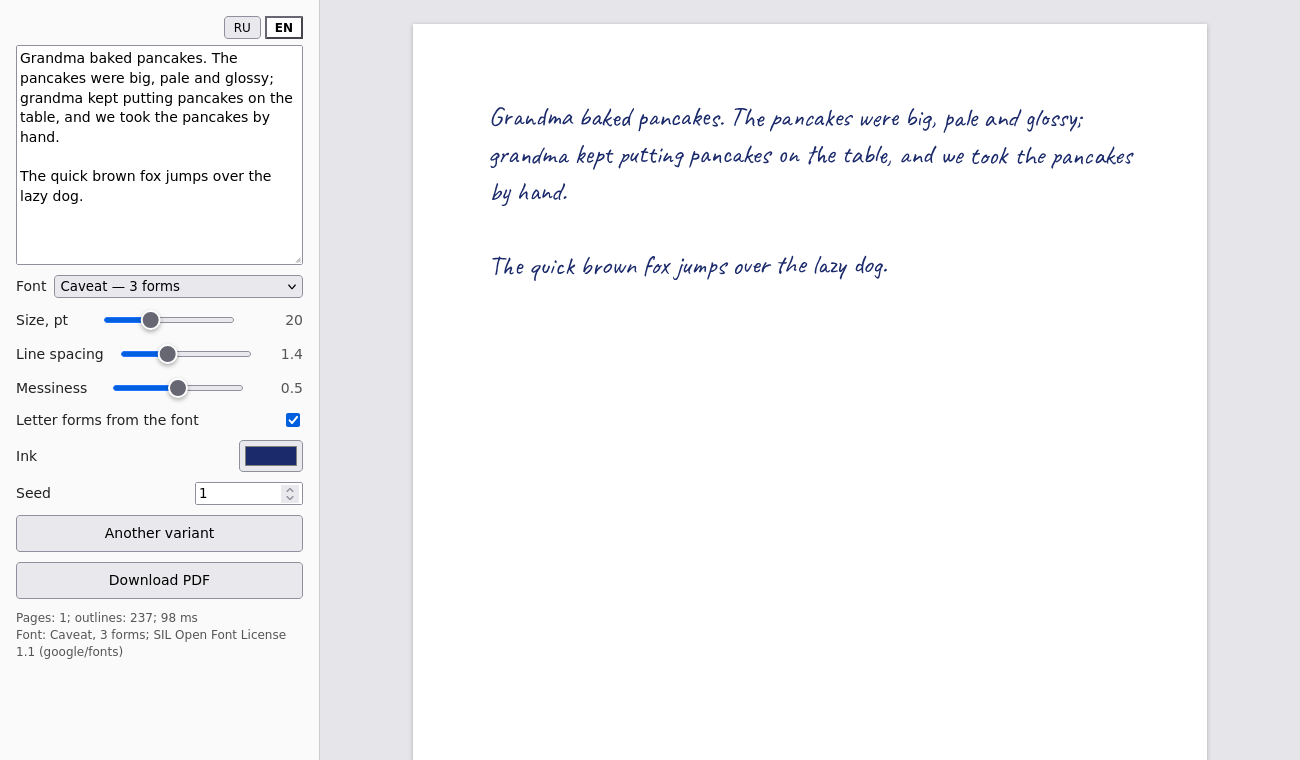
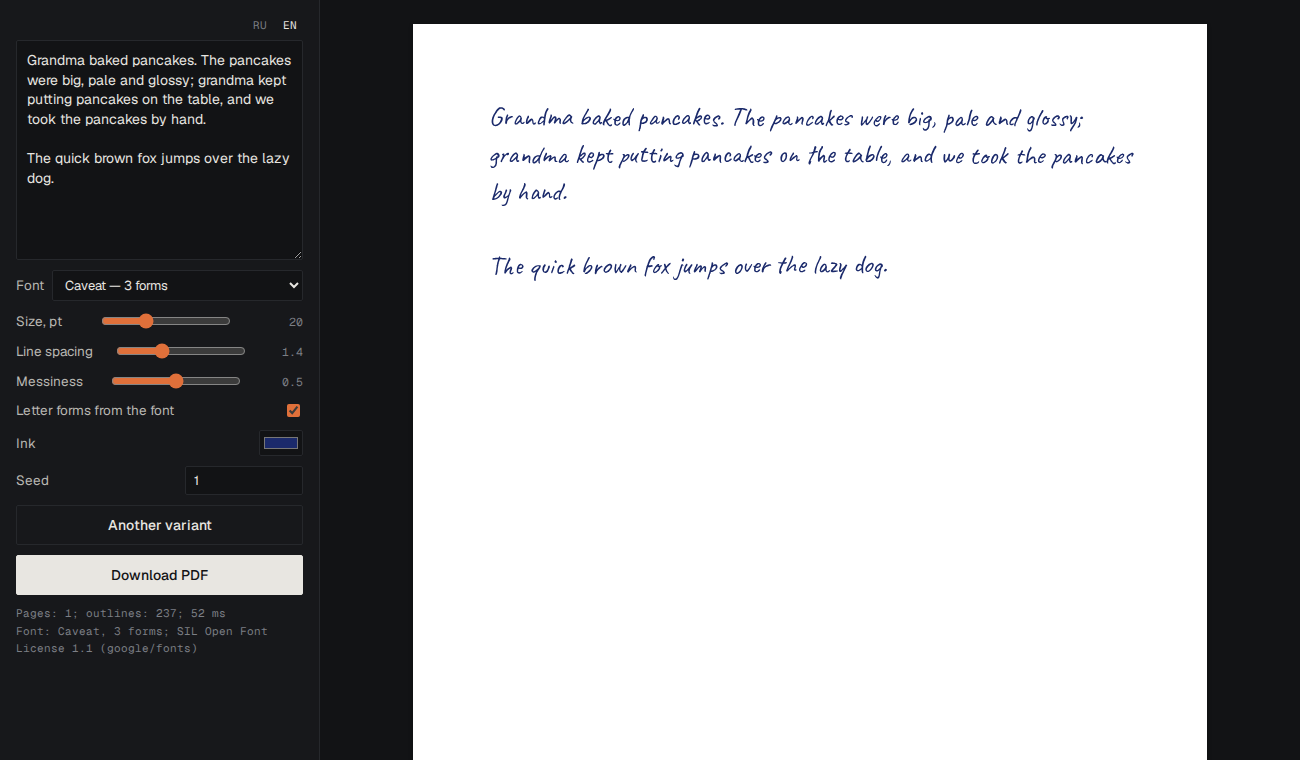
Dark theme matching the caerno.github.io landing

diff --git a/web/index.html b/web/index.html
@@ -3,40 +3,60 @@
 <head>
 <meta charset="utf-8">
 <title>Живой почерк → PDF</title>
+<link rel="preconnect" href="https://fonts.googleapis.com">
+<link rel="preconnect" href="https://fonts.gstatic.com" crossorigin>
+<link rel="stylesheet" href="https://fonts.googleapis.com/css2?family=Geist:wght@400..700&family=Geist+Mono:wght@400;500&display=swap">
 <style>
-  body { margin: 0; font: 14px/1.4 system-ui, sans-serif; display: flex; height: 100vh; background: #e6e6ea; color: #222; }
-  aside { width: 320px; flex: none; padding: 16px; box-sizing: border-box; background: #fafafa; border-right: 1px solid #ccc;
+  /* Палитра и шрифты — как у прототипа главной caerno.github.io (тёмная тема). */
+  :root { --bg: #121315; --bg2: #17181B; --ink: #E8E6E1; --mid: #B9B7B2; --dim: #7C7F85; --line: #26282C; --accent: #E0703A;
+          --sans: 'Geist', system-ui, sans-serif; --mono: 'Geist Mono', monospace; color-scheme: dark; }
+  body { margin: 0; font: 14px/1.4 var(--sans); display: flex; height: 100vh; background: var(--bg); color: var(--ink);
+         -webkit-font-smoothing: antialiased; }
+  aside { width: 320px; flex: none; padding: 16px; box-sizing: border-box; background: var(--bg2); border-right: 1px solid var(--line);
           overflow: auto; display: flex; flex-direction: column; gap: 10px; }
-  textarea { width: 100%; height: 220px; box-sizing: border-box; font: 14px/1.4 system-ui, sans-serif; resize: vertical; }
-  label { display: flex; justify-content: space-between; align-items: center; gap: 8px; }
-  input[type=range] { width: 130px; }
+  textarea { width: 100%; height: 220px; box-sizing: border-box; font: 14px/1.4 var(--sans); resize: vertical;
+             background: var(--bg); color: var(--ink); border: 1px solid var(--line); border-radius: 2px; padding: 10px; }
+  label { display: flex; justify-content: space-between; align-items: center; gap: 8px; color: var(--mid); font-size: 13.5px; }
+  input[type=range] { width: 130px; accent-color: var(--accent); }
+  input[type=checkbox] { accent-color: var(--accent); }
+  select, input[type=number] { background: var(--bg); color: var(--ink); border: 1px solid var(--line); border-radius: 2px;
+                               padding: 5px 8px; font: 13px var(--sans); }
   select { flex: 1; min-width: 0; }
-  output { width: 34px; text-align: right; color: #555; }
-  button { padding: 8px 10px; font-size: 14px; cursor: pointer; }
-  #status { color: #555; font-size: 12px; white-space: pre-line; }
+  input[type=color] { width: 44px; height: 26px; padding: 2px; background: var(--bg); border: 1px solid var(--line); border-radius: 2px; }
+  textarea:focus, select:focus, input:focus { outline: none; border-color: var(--dim); }
+  output { width: 34px; text-align: right; color: var(--dim); font: 11.5px var(--mono); }
+  button { padding: 10px 14px; font: 500 14px var(--sans); cursor: pointer; border-radius: 2px;
+           background: transparent; color: var(--ink); border: 1px solid var(--line); }
+  button:hover { border-color: var(--dim); }
+  #pdf { background: var(--ink); color: var(--bg); border-color: var(--ink); }
+  #pdf:hover { background: #fff; }
+  #status { color: var(--dim); font: 11px/1.6 var(--mono); white-space: pre-line; }
   .lang { display: flex; justify-content: flex-end; gap: 4px; margin-bottom: -4px; }
-  .lang button { padding: 2px 8px; font-size: 12px; }
-  .lang button[aria-pressed=true] { font-weight: bold; background: #fff; }
+  .lang button { padding: 2px 6px; font: 11px var(--mono); color: var(--dim); border: none; }
+  .lang button:hover { color: var(--mid); }
+  .lang button[aria-pressed=true] { color: var(--ink); }
   main { flex: 1; overflow: auto; padding: 24px; display: flex; flex-direction: column; align-items: center; gap: 24px; }
   svg.page { background: #fff; box-shadow: 0 1px 4px rgba(0,0,0,.25); width: min(100%, 794px); height: auto; flex: none; }
+  .rise { opacity: 0; transform: translateY(22px); transition: opacity .7s cubic-bezier(.2,.7,.3,1), transform .7s cubic-bezier(.2,.7,.3,1); }
+  .rise.in { opacity: 1; transform: none; }
 </style>
 </head>
 <body>
 <aside>
-  <div class="lang"><button data-lang="ru">RU</button><button data-lang="en">EN</button></div>
-  <textarea id="text"></textarea>
-  <label><span data-t="font">Шрифт</span> <select id="font"></select></label>
-  <label><span data-t="size">Размер, pt</span> <input id="size" type="range" min="10" max="40" step="1" value="20"><output></output></label>
-  <label><span data-t="leading">Интервал</span> <input id="leading" type="range" min="1" max="2.2" step="0.05" value="1.4"><output></output></label>
-  <label><span data-t="mess">Небрежность</span> <input id="mess" type="range" min="0" max="1" step="0.05" value="0.5"><output></output></label>
-  <label><span data-t="alts">Формы букв из шрифта</span> <input id="alts" type="checkbox" checked></label>
-  <label><span data-t="ink">Чернила</span> <input id="ink" type="color" value="#1b2a6b"></label>
-  <label><span data-t="seed">Зерно</span> <input id="seed" type="number" value="1" style="width: 100px"></label>
-  <button id="reseed" data-t="reseed">Другой вариант</button>
-  <button id="pdf" data-t="pdf">Скачать PDF</button>
-  <div id="status"></div>
+  <div class="lang rise"><button data-lang="ru">RU</button><button data-lang="en">EN</button></div>
+  <textarea id="text" class="rise"></textarea>
+  <label class="rise"><span data-t="font">Шрифт</span> <select id="font"></select></label>
+  <label class="rise"><span data-t="size">Размер, pt</span> <input id="size" type="range" min="10" max="40" step="1" value="20"><output></output></label>
+  <label class="rise"><span data-t="leading">Интервал</span> <input id="leading" type="range" min="1" max="2.2" step="0.05" value="1.4"><output></output></label>
+  <label class="rise"><span data-t="mess">Небрежность</span> <input id="mess" type="range" min="0" max="1" step="0.05" value="0.5"><output></output></label>
+  <label class="rise"><span data-t="alts">Формы букв из шрифта</span> <input id="alts" type="checkbox" checked></label>
+  <label class="rise"><span data-t="ink">Чернила</span> <input id="ink" type="color" value="#1b2a6b"></label>
+  <label class="rise"><span data-t="seed">Зерно</span> <input id="seed" type="number" value="1" style="width: 100px"></label>
+  <button id="reseed" class="rise" data-t="reseed">Другой вариант</button>
+  <button id="pdf" class="rise" data-t="pdf">Скачать PDF</button>
+  <div id="status" class="rise"></div>
 </aside>
-<main id="pages"></main>
+<main id="pages" class="rise"></main>
 
 <!-- Обычные скрипты, не модули: страница открывается через file://, там модули и fetch запрещены. -->
 <script src="vendor/fontkit.umd.min.js"></script>
@@ -289,6 +309,13 @@ $('pdf').onclick = () => exportPdf().catch(e => { $('status').textContent += `\n
 document.querySelectorAll('[data-lang]').forEach(b => b.onclick = () => setLang(b.dataset.lang, true));
 
 setLang(initialLang());
+
+// Плавное появление блоков — тот же приём, что .rise на главной: класс in, когда блок доехал до экрана.
+document.querySelectorAll('aside .rise').forEach((el, i) => el.style.transitionDelay = `${i * 40}ms`);
+const io = new IntersectionObserver(es => es.forEach(en => {
+  if (en.isIntersecting) { en.target.classList.add('in'); io.unobserve(en.target); }
+}), { threshold: 0.15 });
+document.querySelectorAll('.rise').forEach(el => io.observe(el));
 </script>
 </body>
 </html>
